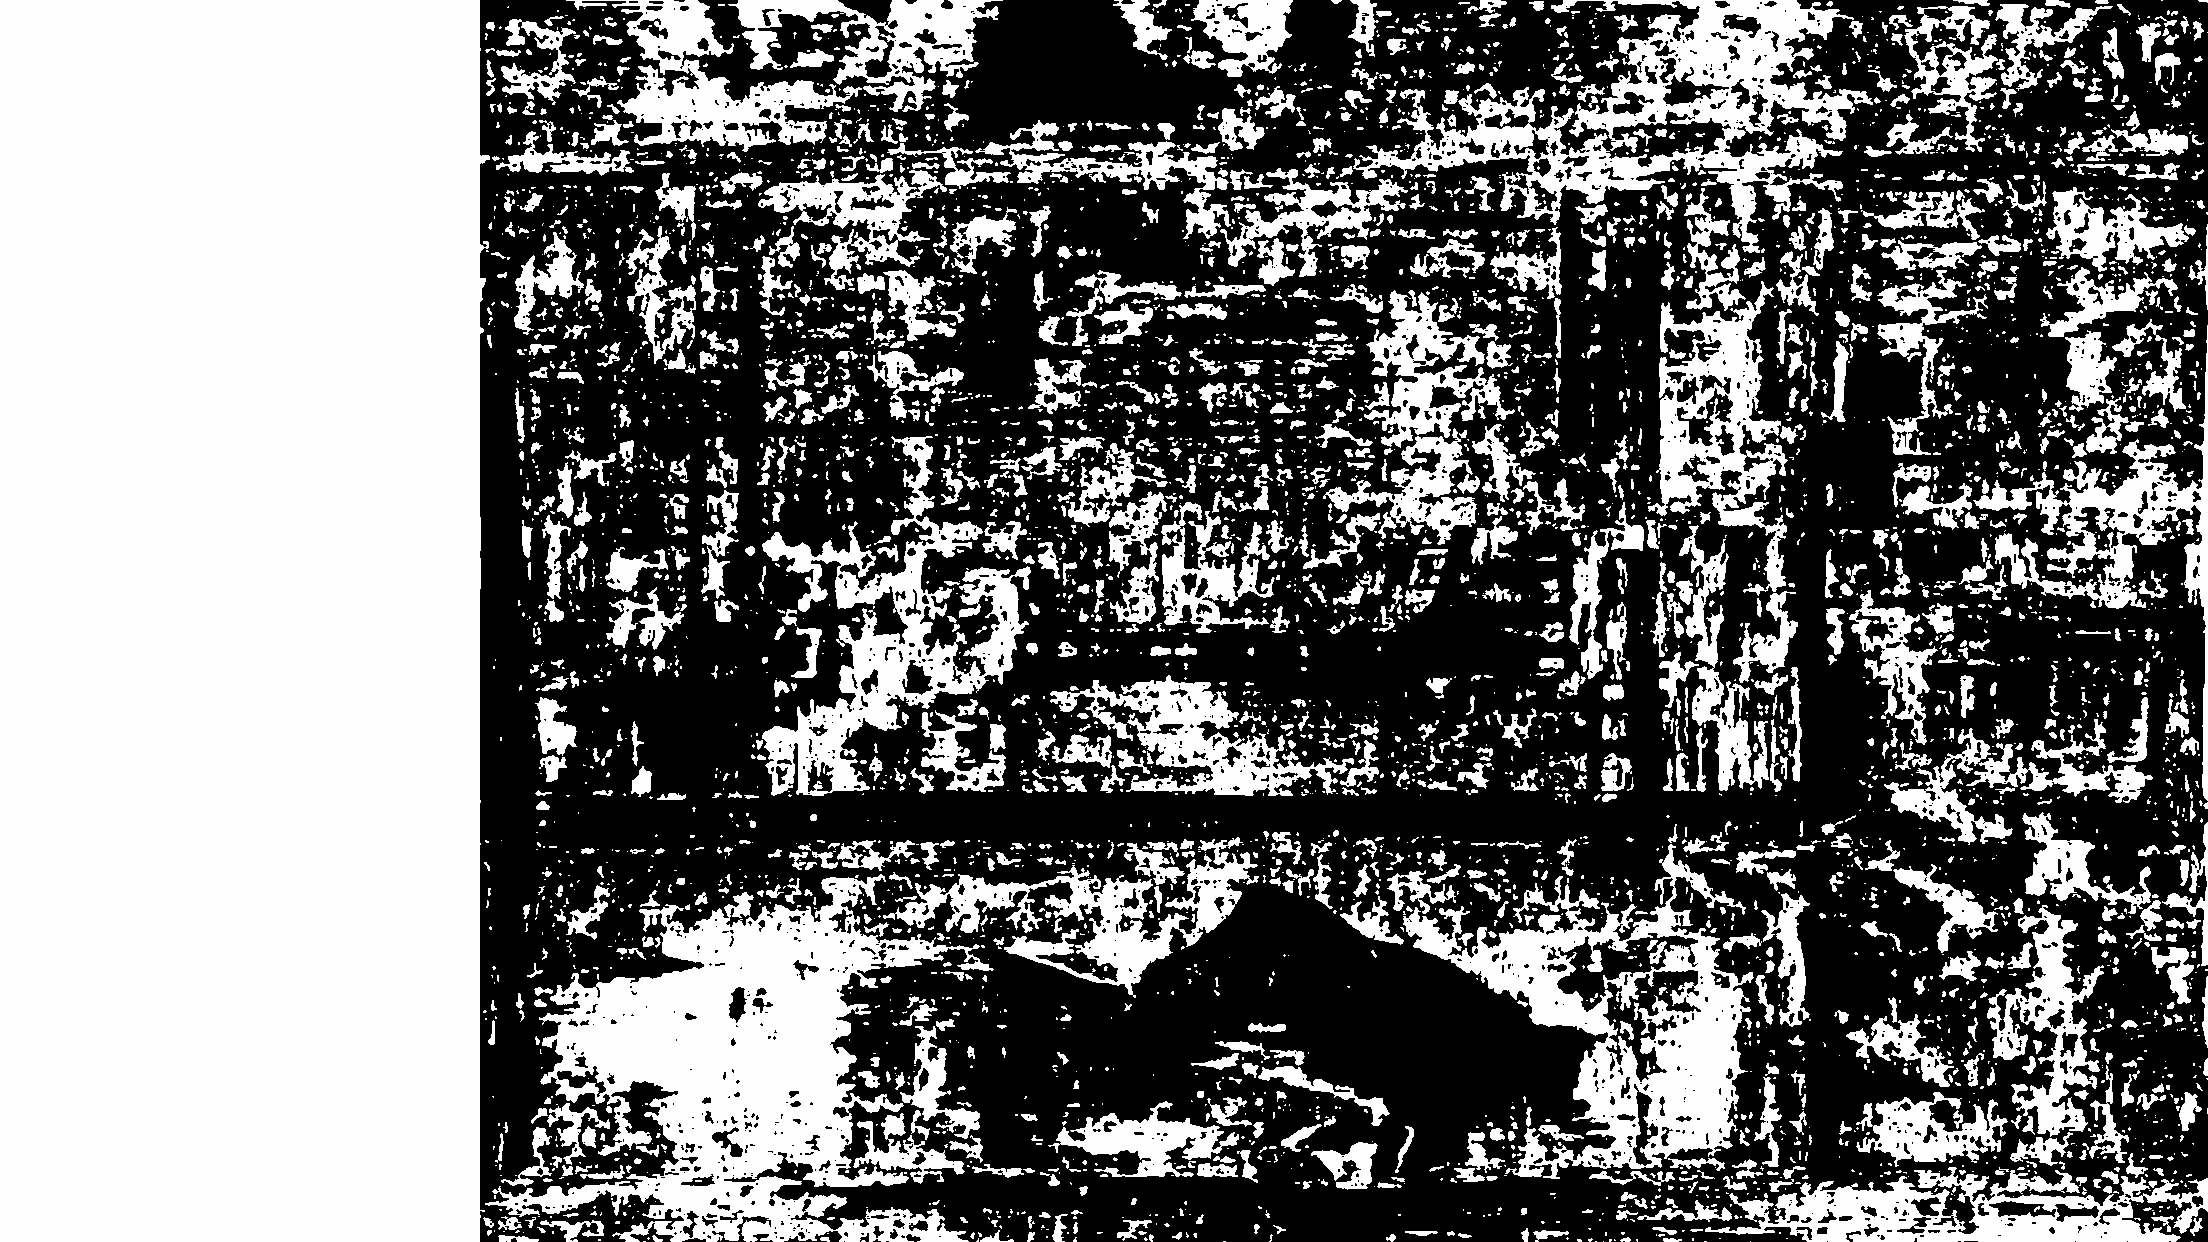
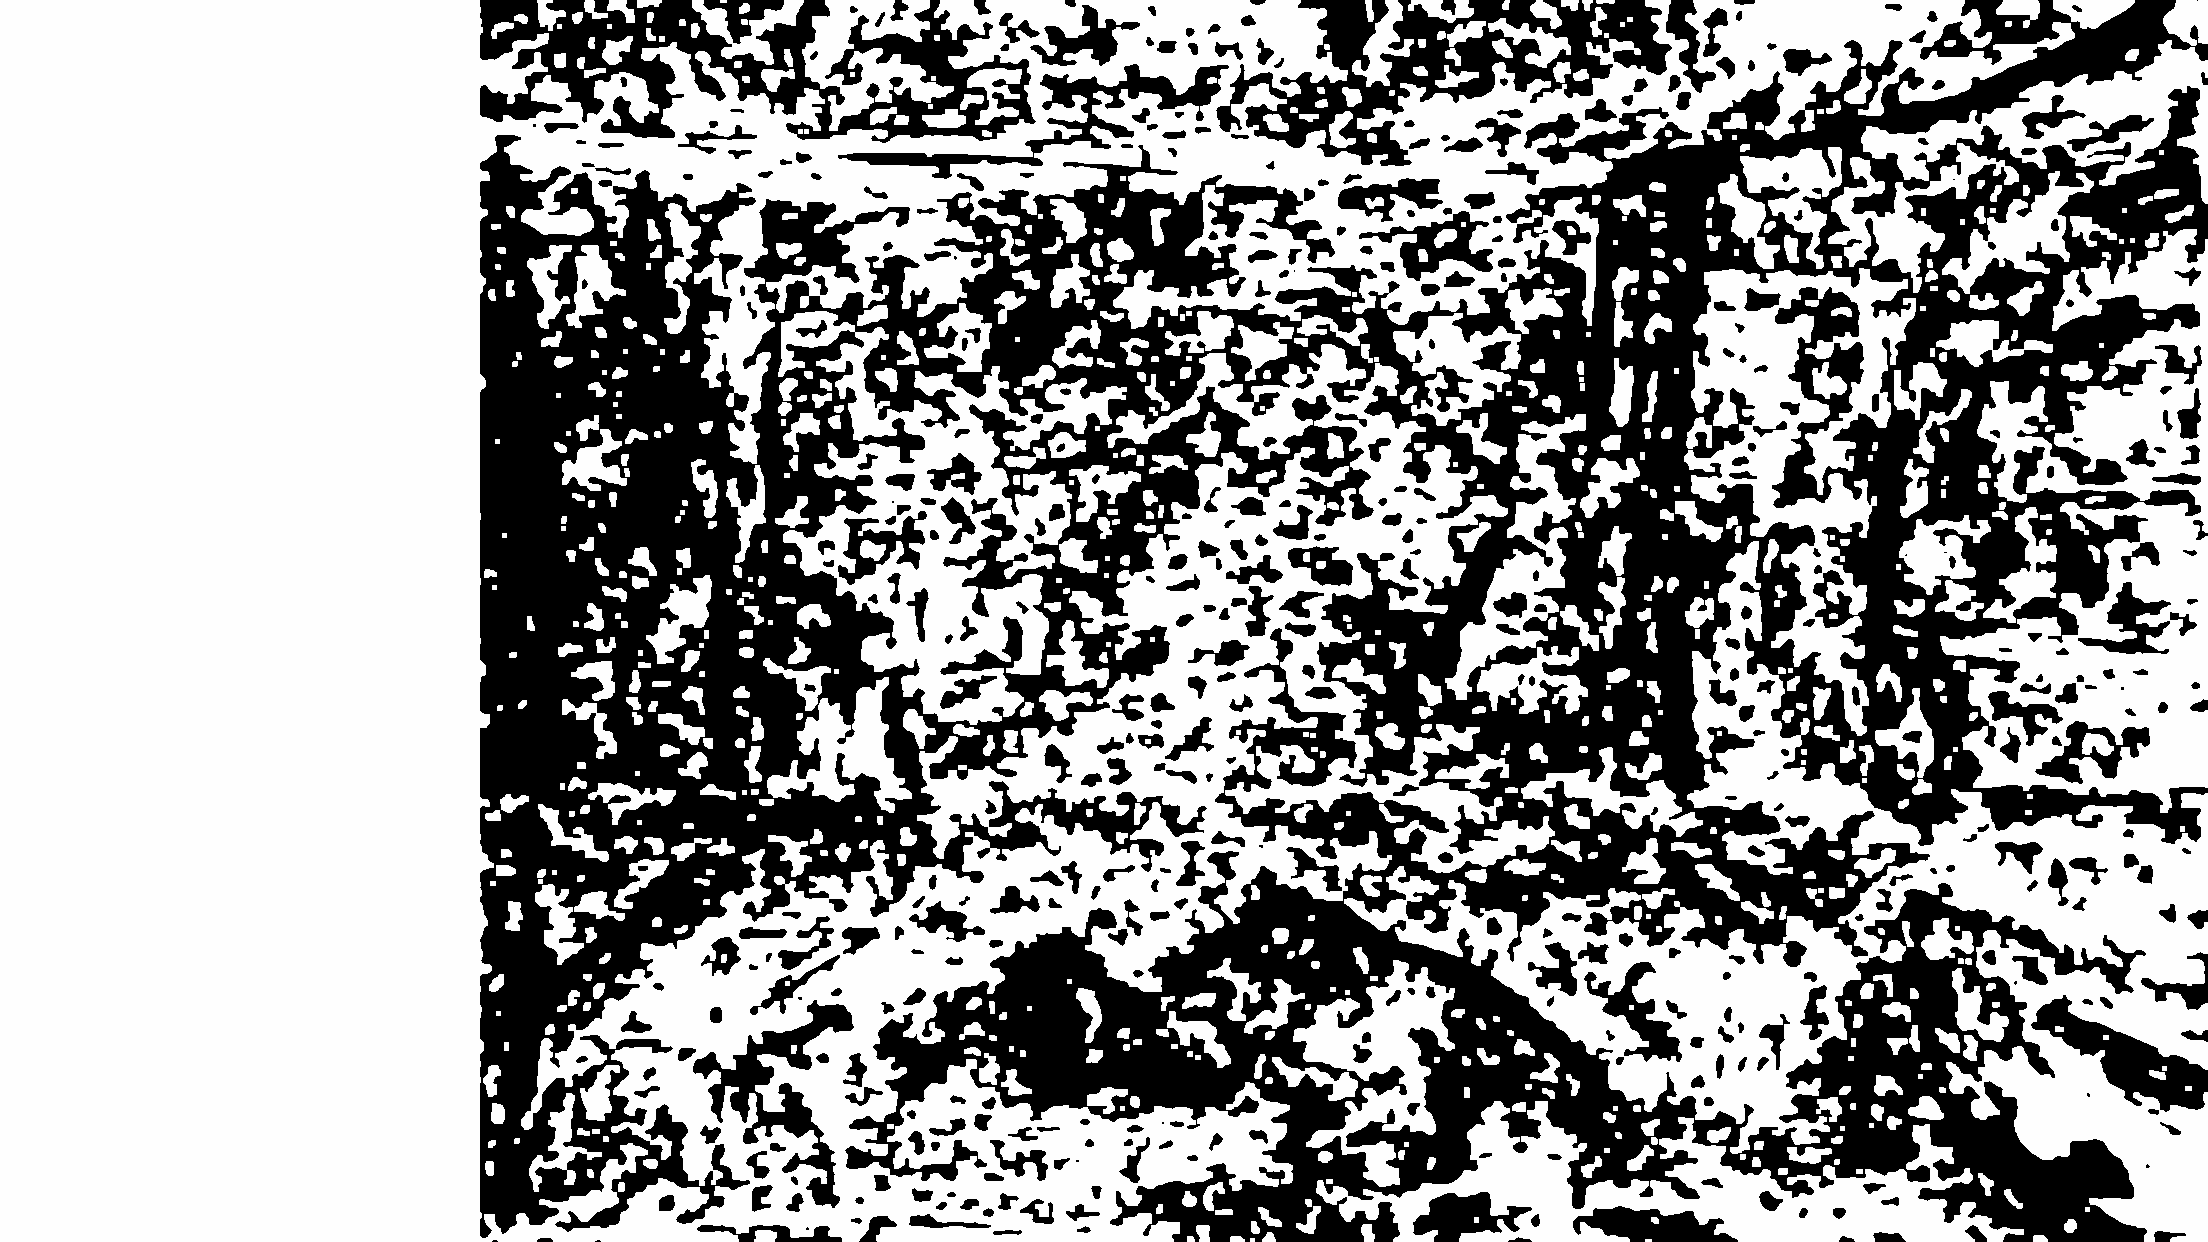
添加相机内参

diff --git a/tools/stereo_match.py b/tools/stereo_match.py
@@ -1,18 +1,66 @@
 import cv2
 import numpy as np
 
+# 图像预处理
+def preprocess_image_SGBM(image):
+    """
+    预处理图像，适用于水下鱼类图像，减少噪声并增强对比度。
+    
+    参数:
+    - image: 输入的图像 (BGR格式)
+
+    返回:
+    - preprocessed_image: 预处理后的图像
+    """
+
+    # 应用自适应直方图均衡化 (CLAHE)
+    clahe = cv2.createCLAHE(clipLimit=2.0, tileGridSize=(8, 8))
+    enhanced_image = clahe.apply(image)
+
+    # 双边滤波来减少噪声
+    filtered_image = cv2.bilateralFilter(enhanced_image, d=9, sigmaColor=75, sigmaSpace=75)
+
+    return filtered_image
+
+def stereo_correct(left_img, right_img):
+    # 相机内参和畸变系数
+    left_camera_matrix = np.array([[1435.4, 0, 1080.0], [0, 1436.0, 603.8241], [0, 0, 1]])
+    left_distortion = np.array([0.0732, -0.5106, 0.0001, -0.0087, 0])
+    right_camera_matrix = np.array([[1433.4, 0, 1088.4], [0, 1436.2, 623.4802], [0, 0, 1]])
+    right_distortion = np.array([0.0260, -0.4456, -0.0011, -0.0074, 0])
+
+    # 相机外参
+    R = np.array([[1.0000, -0.0017, -0.0037],
+                [0.0017, 1.0000, -0.0089],
+                [0.0037, 0.0089, 1.0000]])
+    T = np.array([-120.5981, 0.1648, 2.4893])
+
+    # 去畸变
+    left_img_undistorted = cv2.undistort(left_img, left_camera_matrix, left_distortion)
+    right_img_undistorted = cv2.undistort(right_img, right_camera_matrix, right_distortion)
+
+    # 立体校正
+    h, w = left_img.shape[:2]
+    R1, R2, P1, P2, Q, validPixROI1, validPixROI2 = cv2.stereoRectify(left_camera_matrix, left_distortion, right_camera_matrix, right_distortion, (w, h), R, T)
+    map1x, map1y = cv2.initUndistortRectifyMap(left_camera_matrix, left_distortion, R1, P1, (w, h), cv2.CV_32FC1)
+    map2x, map2y = cv2.initUndistortRectifyMap(right_camera_matrix, right_distortion, R2, P2, (w, h), cv2.CV_32FC1)
+    left_img_rectified = cv2.remap(left_img_undistorted, map1x, map1y, cv2.INTER_LINEAR)
+    right_img_rectified = cv2.remap(right_img_undistorted, map2x, map2y, cv2.INTER_LINEAR)
+
+    return left_img_rectified, right_img_rectified
+
 # 立体匹配
 def StereoSGBM(left_img, right_img):
     # 创建立体匹配器（基于半全局匹配）
     stereo = cv2.StereoSGBM_create(
         minDisparity=0,
         numDisparities=16*30,  # 确保是16的倍数
-        blockSize=11,
-        P1=8 * 3 * 11**2,
-        P2=32 * 3 * 11**2,
+        blockSize=15,
+        P1= 8 * 3 * 15^2,
+        P2= 32 * 3 * 15^2,
         disp12MaxDiff=1,
         # uniquenessRatio=15,
-        speckleWindowSize=0,
+        speckleWindowSize=50,
         speckleRange=2,
         preFilterCap=63,
         mode=cv2.STEREO_SGBM_MODE_SGBM_3WAY
@@ -21,6 +69,8 @@ def StereoSGBM(left_img, right_img):
     # 计算视差图
     disparity = stereo.compute(left_img, right_img).astype(np.float32) / 16.0
     disparity = np.clip(disparity, 1e-6, None)  # 避免除以零
+    
+    disparity = postprocess_disparity(disparity) # 后处理
 
     # 深度计算参数
     focal_length = 2.1
@@ -34,3 +84,22 @@ def StereoSGBM(left_img, right_img):
     depth_map_normalized = np.uint8(depth_map_normalized)
 
     return disparity, depth_map_normalized
+
+# 图像后处理
+def postprocess_disparity(disparity):
+    """
+    后处理视差图，通过中值滤波和平滑去除噪声，并进行孔洞填充。
+    
+    参数:
+    - disparity: 输入的视差图 (float32 格式)
+
+    返回:
+    - processed_disparity: 后处理后的视差图
+    """
+    # 中值滤波减少噪声
+    filtered_disparity = cv2.medianBlur(disparity, 5)
+
+    # 孔洞填充，填补由于噪声和误匹配造成的视差图中的空洞
+    processed_disparity = cv2.morphologyEx(filtered_disparity, cv2.MORPH_CLOSE, kernel=np.ones((5, 5), np.uint8))
+
+    return processed_disparity  

diff --git a/test2.py b/test2.py
@@ -2,7 +2,7 @@
 import cv2
 from tools.preprocess import preprocess_image, correct, split_image
 from tools.regression import volume_to_mass
-from tools.stereo_match import StereoSGBM
+from tools.stereo_match import StereoSGBM, preprocess_image_SGBM, postprocess_disparity, stereo_correct
 from tools.point_cloud import generate_point_cloud, estimate_volume_from_point_cloud
 from tools.model_load import load_model, detect_fish
 
@@ -11,15 +11,17 @@ def map(left_image_path,right_image_path):
     left_image = preprocess_image(left_image_path)
     right_image = preprocess_image(right_image_path)
 
+    left_image, right_image = stereo_correct(left_image, right_image)
+
     disparity, depth_map = StereoSGBM(left_image, right_image)
-    
+
     disparity_out_path = 'out/视差图.png'
     depth_map_out_path = 'out/深度图像.png'
     cv2.imwrite(disparity_out_path, disparity)
     cv2.imwrite(depth_map_out_path, depth_map)
 
 
-
+# 完整估算体积
 def test(left_image_path,right_image_path, focal_length, baseline):
     left_image = preprocess_image(left_image_path)
     right_image = preprocess_image(right_image_path)
@@ -46,4 +48,4 @@ def test(left_image_path,right_image_path, focal_length, baseline):
         print("未检测到鱼类。")
 
 # test('1_left.jpg','1_right.jpg', focal_length=2.1, baseline=120)
-map('校正图像/13_imagesLeft/1_left_corrected.jpg','校正图像/13_imagesRight/1_right_corrected.jpg')
+map('input/1_left_corrected.jpg','input/1_right_corrected.jpg')

diff --git a/readme.md b/readme.md
@@ -38,7 +38,7 @@
 1. 启动 Flask 应用：
 
     ```bash
-    python app.py
+    python API/analysis.py
 
 2. 发送 POST 请求到 /process_fish 端点，上传图像文件。你可以使用工具如 curl 或 Postman 来测试 API。例如，使用 curl：
 
